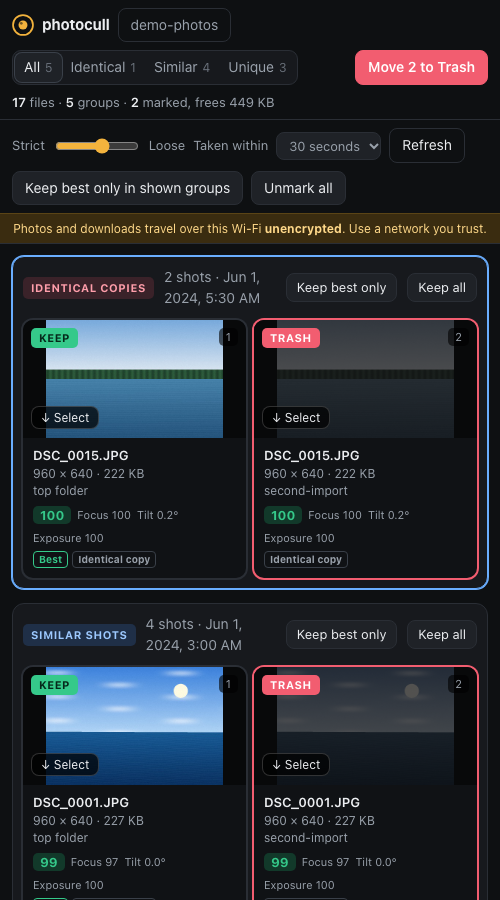
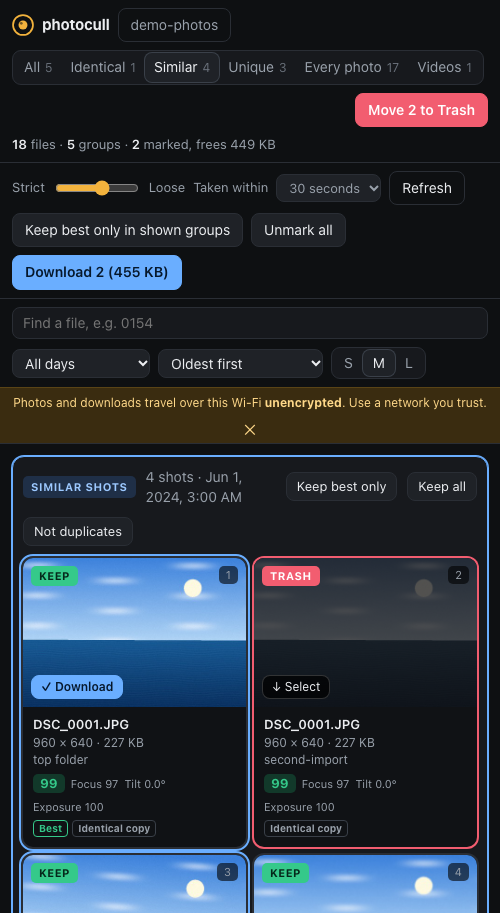
Fluid layout for any screen, fresh screenshots, demo video
The photo grid now fills the window at any width (wide monitor to phone)
with S/M/L setting the column size, and the page uses the full width.
The demo generator adds a synthetic 3-second clip, and every screenshot
in the README is retaken, with new ones for Every photo, the one-by-one
viewer and video playback.

Claude-Session: https://claude.ai/code/session_01CmzD6SSjDTYLtsakVUm8n8

diff --git a/photocull/web/index.html b/photocull/web/index.html
@@ -66,7 +66,7 @@
   .notice .x { border: 0; padding: 0 4px; font-size: 15px; line-height: 1; }
   header { transition: transform .2s ease; position: sticky; top: 0; z-index: 5; background: rgba(14,16,18,.92); backdrop-filter: blur(10px);
            border-bottom: 1px solid var(--line); }
-  .row { display: flex; flex-wrap: wrap; gap: 10px; align-items: center; padding: 10px 20px; max-width: 1600px; margin: 0 auto; }
+  .row { display: flex; flex-wrap: wrap; gap: 10px; align-items: center; padding: 10px 20px; }
   .row + .row { border-top: 1px solid var(--line); padding-top: 8px; padding-bottom: 8px; }
   .brand { font-weight: 700; font-size: 16px; letter-spacing: -.01em; display: flex; align-items: center; gap: 8px; }
   .brand svg { width: 22px; height: 22px; }
@@ -82,7 +82,7 @@
   .ctl select { background: var(--raised); border: 1px solid var(--line); border-radius: 8px; padding: 4px 8px; }
   .grow { flex: 1; }
 
-  main { padding: 18px 20px 80px; max-width: 1600px; margin: 0 auto; }
+  main { padding: 18px 20px 80px; }
   .group { background: var(--panel); border: 1px solid var(--line); border-radius: var(--radius);
            margin-bottom: 14px; padding: 14px; }
   .group.focus { border-color: var(--focus); box-shadow: 0 0 0 1px var(--focus); }
@@ -101,17 +101,17 @@
   .gwarn { color: var(--accent); font-weight: 600; }
   .ghead button { padding: 4px 10px; font-size: 13px; }
 
-  .tiles { display: flex; flex-wrap: wrap; gap: 12px; }
-  body { --pic: 176px; }
-  body.size-s { --pic: 120px; }
-  body.size-s .tile { width: 172px; }
-  body.size-l { --pic: 330px; }
-  body.size-l .tile { width: 470px; }
-  .tile { width: 252px; border-radius: 10px; overflow: hidden; background: #101215; cursor: pointer;
+  /* Fluid grid: as many columns as fit, each stretched so rows fill the screen.
+     S / M / L only change the smallest column width. */
+  body { --col: 240px; }
+  body.size-s { --col: 160px; }
+  body.size-l { --col: 440px; }
+  .tiles { display: grid; grid-template-columns: repeat(auto-fill, minmax(min(var(--col), 100%), 1fr)); gap: 12px; }
+  .tile { min-width: 0; border-radius: 10px; overflow: hidden; background: #101215; cursor: pointer;
           position: relative; box-shadow: 0 0 0 2px var(--line); transition: box-shadow .12s, transform .12s; }
   .tile:hover { transform: translateY(-1px); box-shadow: 0 0 0 2px var(--line2); }
-  .tile .pic { height: var(--pic); display: flex; align-items: center; justify-content: center; background: #08090a; }
-  .tile img { max-width: 100%; max-height: var(--pic); display: block; transition: opacity .12s, filter .12s; }
+  .tile .pic { position: relative; aspect-ratio: 3 / 2; display: flex; align-items: center; justify-content: center; background: #08090a; }
+  .tile img { max-width: 100%; max-height: 100%; display: block; transition: opacity .12s, filter .12s; }
   .tile .nothumb { color: var(--faint); font-size: 12px; }
   .tile .cap { padding: 8px 10px 10px; font-size: 12px; }
   .tile .name { font-weight: 600; font-size: 13px; white-space: nowrap; overflow: hidden; text-overflow: ellipsis; }
@@ -123,7 +123,7 @@
   .tile.marked .state { background: var(--trash); color: #fff; }
   .tile .num { position: absolute; top: 8px; right: 8px; background: rgba(0,0,0,.6); border-radius: 5px;
                padding: 1px 7px; font-size: 11px; color: var(--dim); }
-  .tile .zoom { position: absolute; top: calc(var(--pic) - 36px); right: 8px; padding: 2px 9px; font-size: 12px;
+  .tile .zoom { position: absolute; bottom: 8px; right: 8px; padding: 2px 9px; font-size: 12px;
                 background: rgba(0,0,0,.72); border-color: rgba(255,255,255,.18); opacity: 0; }
   .tile:hover .zoom, .tile .zoom:focus-visible { opacity: 1; }
   .score { display: flex; align-items: center; gap: 6px; margin-top: 6px; flex-wrap: wrap; }
@@ -174,7 +174,7 @@
   .notice[hidden], body:not(.remote) #netnote { display: none; }
 
   /* Choosing shots to download to the phone. */
-  .tile .pick { position: absolute; top: calc(var(--pic) - 36px); left: 8px; padding: 2px 9px; font-size: 12px;
+  .tile .pick { position: absolute; bottom: 8px; left: 8px; padding: 2px 9px; font-size: 12px;
                 background: rgba(0,0,0,.72); border-color: rgba(255,255,255,.18); }
   .tile.picked .pick { background: var(--focus); border-color: var(--focus); color: #06182c; font-weight: 600; }
   .tile.picked { outline: 2px solid var(--focus); outline-offset: 2px; }
@@ -200,18 +200,14 @@
     .grow { display: none; }
     main { padding: 12px 12px 70px; }
     .group { padding: 10px; }
-    .tiles { gap: 8px; }
-    body { --pic: 118px; }
-    .tile { width: calc(50% - 4px); }
-    body.size-s { --pic: 84px; }
-    body.size-s .tile { width: calc(33.33% - 6px); }
+    .tiles { gap: 8px; grid-template-columns: repeat(2, minmax(0, 1fr)); }
+    body.size-s .tiles { grid-template-columns: repeat(3, minmax(0, 1fr)); }
+    body.size-l .tiles { grid-template-columns: minmax(0, 1fr); }
     body.size-s .tile .cap .sub, body.size-s .tile .score, body.size-s .tile .tags,
     body.size-s .tile .num { display: none; }
     body.size-s .tile .cap { padding: 5px 6px; }
     body.size-s .tile .name { font-size: 11px; }
-    body.size-s .tile .zoom, body.size-s .tile .pick { font-size: 11px; padding: 1px 6px; top: calc(var(--pic) - 28px); }
-    body.size-l { --pic: 64vw; }
-    body.size-l .tile { width: 100%; }
+    body.size-s .tile .zoom, body.size-s .tile .pick { font-size: 11px; padding: 1px 6px; bottom: 5px; }
     .findrow input[type=search] { flex: 1 1 100%; }
     .notice { padding: 6px 12px; font-size: 12px; }
     .keys { display: none; }
@@ -647,10 +643,10 @@ function renderTile(g, s, i) {
   if (!isFlat(g)) t.appendChild(el("span", "num", String(i + 1)));
   const pick = el("button", "pick");
   pick.onclick = e => { e.stopPropagation(); picks.has(s.id) ? picks.delete(s.id) : picks.add(s.id); paintTile(t, s); updateStats(); };
-  t.appendChild(pick);
+  pic.appendChild(pick);
   const zoom = el("button", "zoom", s.video ? "Play" : "View");
   zoom.onclick = e => { e.stopPropagation(); openBox(g, i); };
-  t.appendChild(zoom);
+  pic.appendChild(zoom);
   const cap = el("div", "cap");
   const name = el("div", "name", s.name); name.title = s.folder + "/" + s.name;
   cap.appendChild(name);

diff --git a/demo/make_video.swift b/demo/make_video.swift
@@ -1,0 +1,41 @@
+// Turn a list of JPEG frames into a short H.264 .mov (used by make_demo.py).
+// Usage: swift make_video.swift OUT.mov FPS frame1.jpg frame2.jpg ...
+import AVFoundation
+import CoreGraphics
+import ImageIO
+
+let args = CommandLine.arguments
+let out = URL(fileURLWithPath: args[1])
+let fps = Int32(args[2])!
+let frames: [CGImage] = args[3...].map { path in
+    let src = CGImageSourceCreateWithURL(URL(fileURLWithPath: path) as CFURL, nil)!
+    return CGImageSourceCreateImageAtIndex(src, 0, nil)!
+}
+let w = frames[0].width, h = frames[0].height
+try? FileManager.default.removeItem(at: out)
+let writer = try AVAssetWriter(outputURL: out, fileType: .mov)
+let input = AVAssetWriterInput(mediaType: .video, outputSettings: [
+    AVVideoCodecKey: AVVideoCodecType.h264, AVVideoWidthKey: w, AVVideoHeightKey: h])
+let adaptor = AVAssetWriterInputPixelBufferAdaptor(assetWriterInput: input, sourcePixelBufferAttributes: [
+    kCVPixelBufferPixelFormatTypeKey as String: kCVPixelFormatType_32ARGB, kCVPixelBufferWidthKey as String: w,
+    kCVPixelBufferHeightKey as String: h])
+writer.add(input)
+writer.startWriting()
+writer.startSession(atSourceTime: .zero)
+for (i, image) in frames.enumerated() {
+    while !input.isReadyForMoreMediaData { usleep(1000) }
+    var buffer: CVPixelBuffer?
+    CVPixelBufferPoolCreatePixelBuffer(nil, adaptor.pixelBufferPool!, &buffer)
+    CVPixelBufferLockBaseAddress(buffer!, [])
+    let ctx = CGContext(data: CVPixelBufferGetBaseAddress(buffer!), width: w, height: h, bitsPerComponent: 8,
+                        bytesPerRow: CVPixelBufferGetBytesPerRow(buffer!), space: CGColorSpaceCreateDeviceRGB(),
+                        bitmapInfo: CGImageAlphaInfo.noneSkipFirst.rawValue)!
+    ctx.draw(image, in: CGRect(x: 0, y: 0, width: w, height: h))
+    CVPixelBufferUnlockBaseAddress(buffer!, [])
+    adaptor.append(buffer!, withPresentationTime: CMTime(value: Int64(i), timescale: fps))
+}
+input.markAsFinished()
+let done = DispatchSemaphore(value: 0)
+writer.finishWriting { done.signal() }
+done.wait()
+if writer.status != .completed { print(writer.error!); exit(1) }

diff --git a/demo/make_demo.py b/demo/make_demo.py
@@ -9,7 +9,8 @@ part of the app has something to show.
     python3 demo/make_demo.py            # writes ./demo-photos
     ./photocull.sh demo-photos
 
-Needs only macOS (it uses the built-in `sips` to write JPEGs).
+Needs only macOS (it uses the built-in `sips` to write JPEGs). A short demo video is
+added too when the Swift compiler is available (Xcode command line tools).
 """
 import math
 import os
@@ -156,6 +157,29 @@ BURSTS = [
 SINGLES = [forest, desert, lake]
 
 
+def make_video(dest, taken):
+    """A 3-second clip of the sun setting, written with AVFoundation via a small Swift helper."""
+    if not shutil.which("swift"):
+        return False
+    with tempfile.TemporaryDirectory() as tmp:
+        frames = []
+        for i in range(12):
+            def scene(u, v, lift=i * 0.012):
+                return sunset(u, v - lift)
+            bmp = os.path.join(tmp, "f%02d.bmp" % i)
+            jpg = os.path.join(tmp, "f%02d.jpg" % i)
+            with open(bmp, "wb") as f:
+                f.write(render(scene, 0.0, 1.0, seed=i))
+            sips("-s", "format", "jpeg", bmp, "--out", jpg)
+            frames.append(jpg)
+        helper = os.path.join(os.path.dirname(os.path.abspath(__file__)), "make_video.swift")
+        ok = subprocess.run(["swift", helper, dest, "4"] + frames, stdout=subprocess.DEVNULL,
+                            stderr=subprocess.DEVNULL).returncode == 0
+    if ok:
+        os.utime(dest, (taken, taken))
+    return ok
+
+
 def main():
     out = sys.argv[1] if len(sys.argv) > 1 else "demo-photos"
     marker = os.path.join(out, ".photocull-demo")
@@ -184,7 +208,11 @@ def main():
     for original in (first, dest):
         shutil.copy2(original, os.path.join(out, "second-import", os.path.basename(original)))
         print("second-import/%s  exact copy" % os.path.basename(original))
-    print("\nWrote %d files to %s. Now run:  ./photocull.sh %s" % (number + 2, out, out))
+    written = number + 2
+    if make_video(os.path.join(out, "DSC_0100.MOV"), START + 10800):
+        written += 1
+        print("DSC_0100.MOV  sunset    video")
+    print("\nWrote %d files to %s. Now run:  ./photocull.sh %s" % (written, out, out))
 
 
 if __name__ == "__main__":

diff --git a/README.md b/README.md
@@ -45,14 +45,15 @@ To skip the chooser, pass the folder: `./photocull.sh /path/to/photos`.
 ### Try it without your own photos
 
 ```sh
-python3 demo/make_demo.py      # draws 17 synthetic "photos" into ./demo-photos
+python3 demo/make_demo.py      # draws 17 synthetic photos and a short video into ./demo-photos
 ./photocull.sh demo-photos
 ```
 
 The script only ever replaces a folder it created itself.
 
 The demo set contains bursts where one frame is good, one is tilted and one is
-out of focus, plus exact copies and a few one-off scenes. The screenshots in
+out of focus, plus exact copies, a few one-off scenes and a 3-second clip (made
+only if the Swift compiler is installed). The screenshots in
 this README were taken from it.
 
 ### What to expect on the first run
@@ -91,6 +92,10 @@ Tabs:
 
 ![Unique tab](docs/unique.png)
 
+![Every photo tab, with find, day, order and size controls](docs/every.png)
+
+![Reviewing one by one in the full-size viewer](docs/viewer.png)
+
 Finding a photo among thousands (the row under the toolbar):
 
 - **Find**: type any part of a file or folder name, e.g. `0154` for
@@ -100,8 +105,9 @@ Finding a photo among thousands (the row under the toolbar):
   first, most tilted first, or worst exposure first. In the group tabs, groups
   are ordered by the shot that fits best (e.g. their most tilted shot), and
   "largest first" puts the biggest groups first.
-- **S / M / L**: picture size. **L** shows one large, sharper picture per row
-  on a phone.
+- **S / M / L**: picture size. The grid always fills the window, whether a
+  wide monitor, a laptop or a phone: S fits the most pictures per row, L the
+  fewest (one large, sharper picture per row on a phone).
 
 The tab counts always describe the whole folder; the number of matches shows
 next to the size buttons. The top bar slides away while you scroll down and
@@ -164,6 +170,8 @@ networks (guest, hotel, some shared building Wi-Fi) block devices from reaching
 each other; phone access cannot work there.
 
 ### Videos
+
+![Playing a video](docs/videos.png)
 
 Video playback uses the browser's own player. A Mac or iPhone plays camera
 HEVC (H.265) video; if a browser cannot play a file, use **Open in QuickTime**
